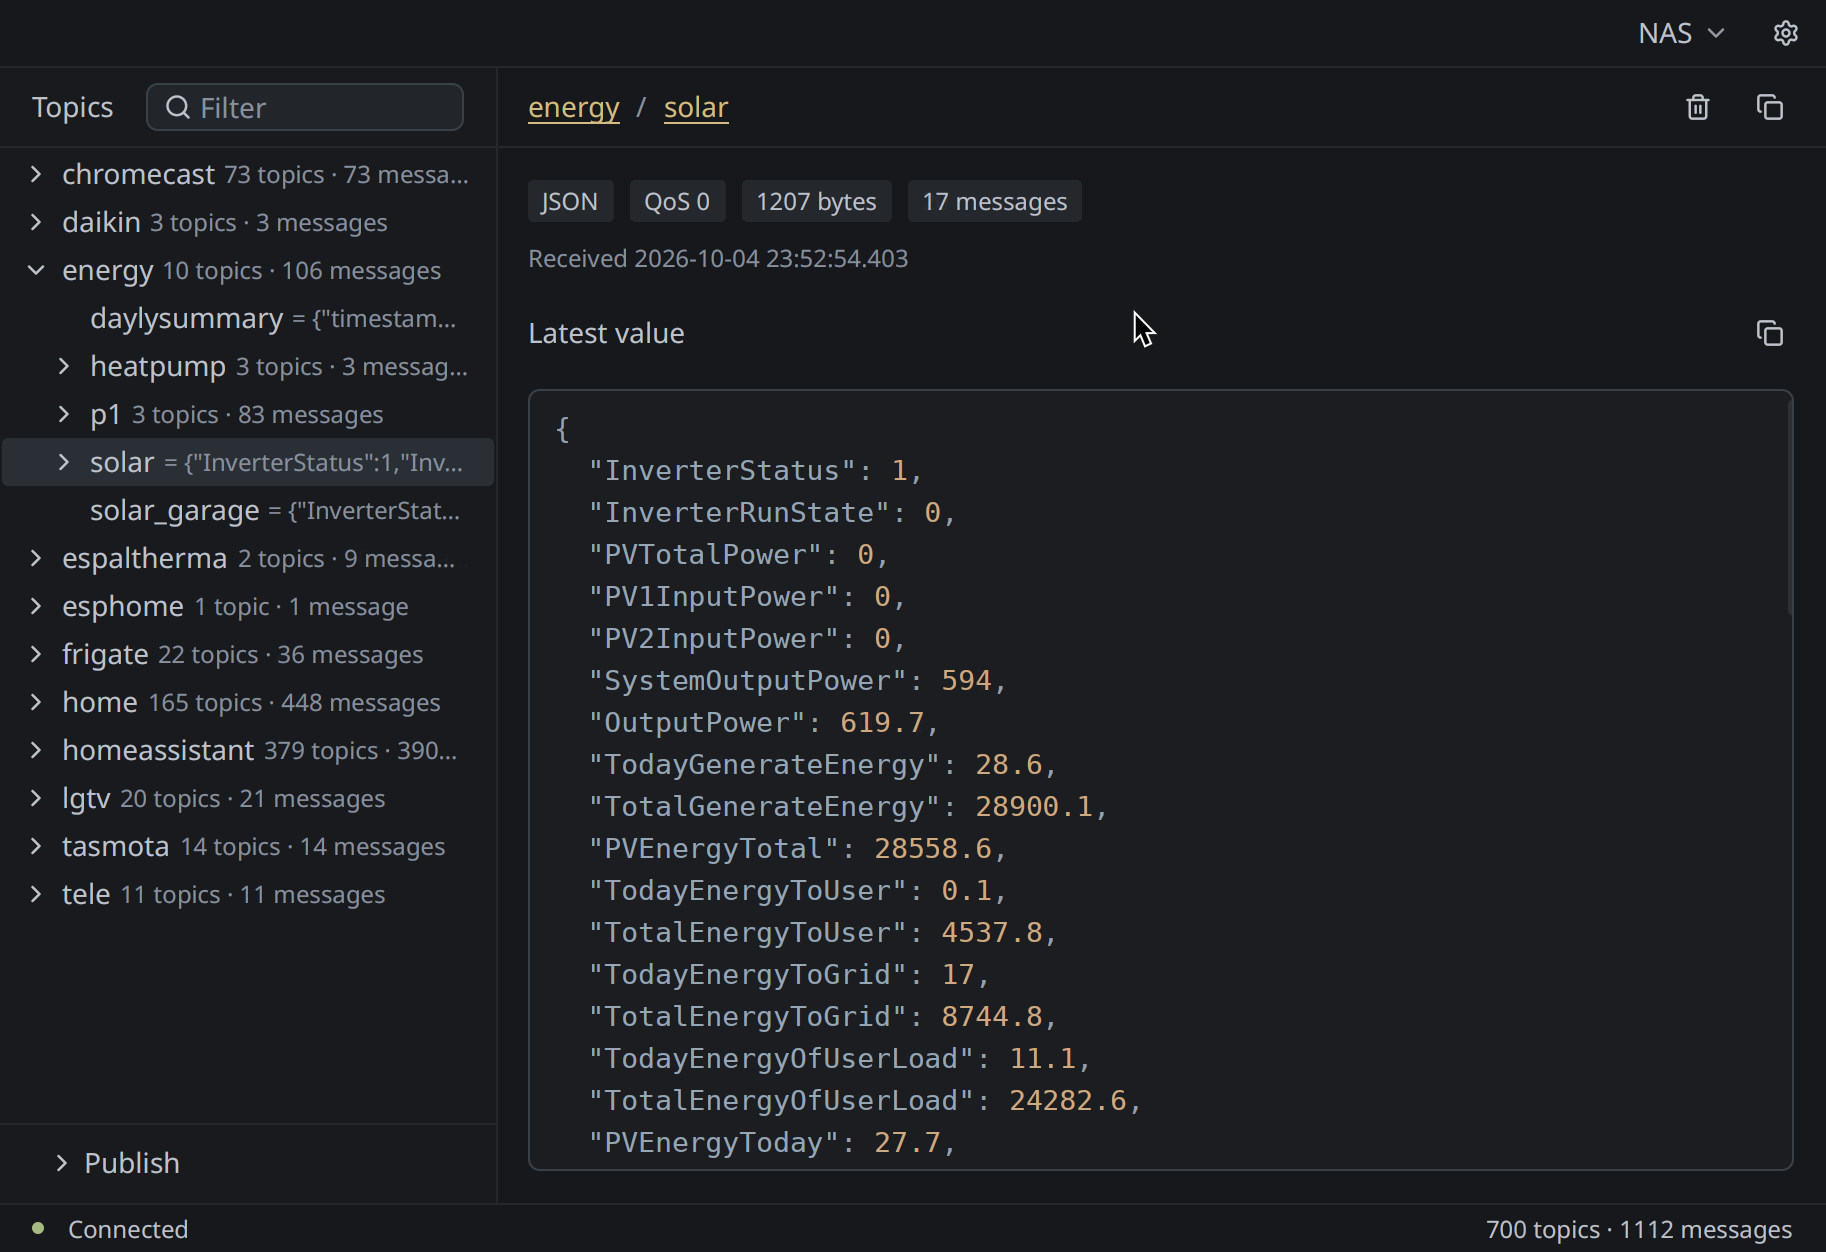
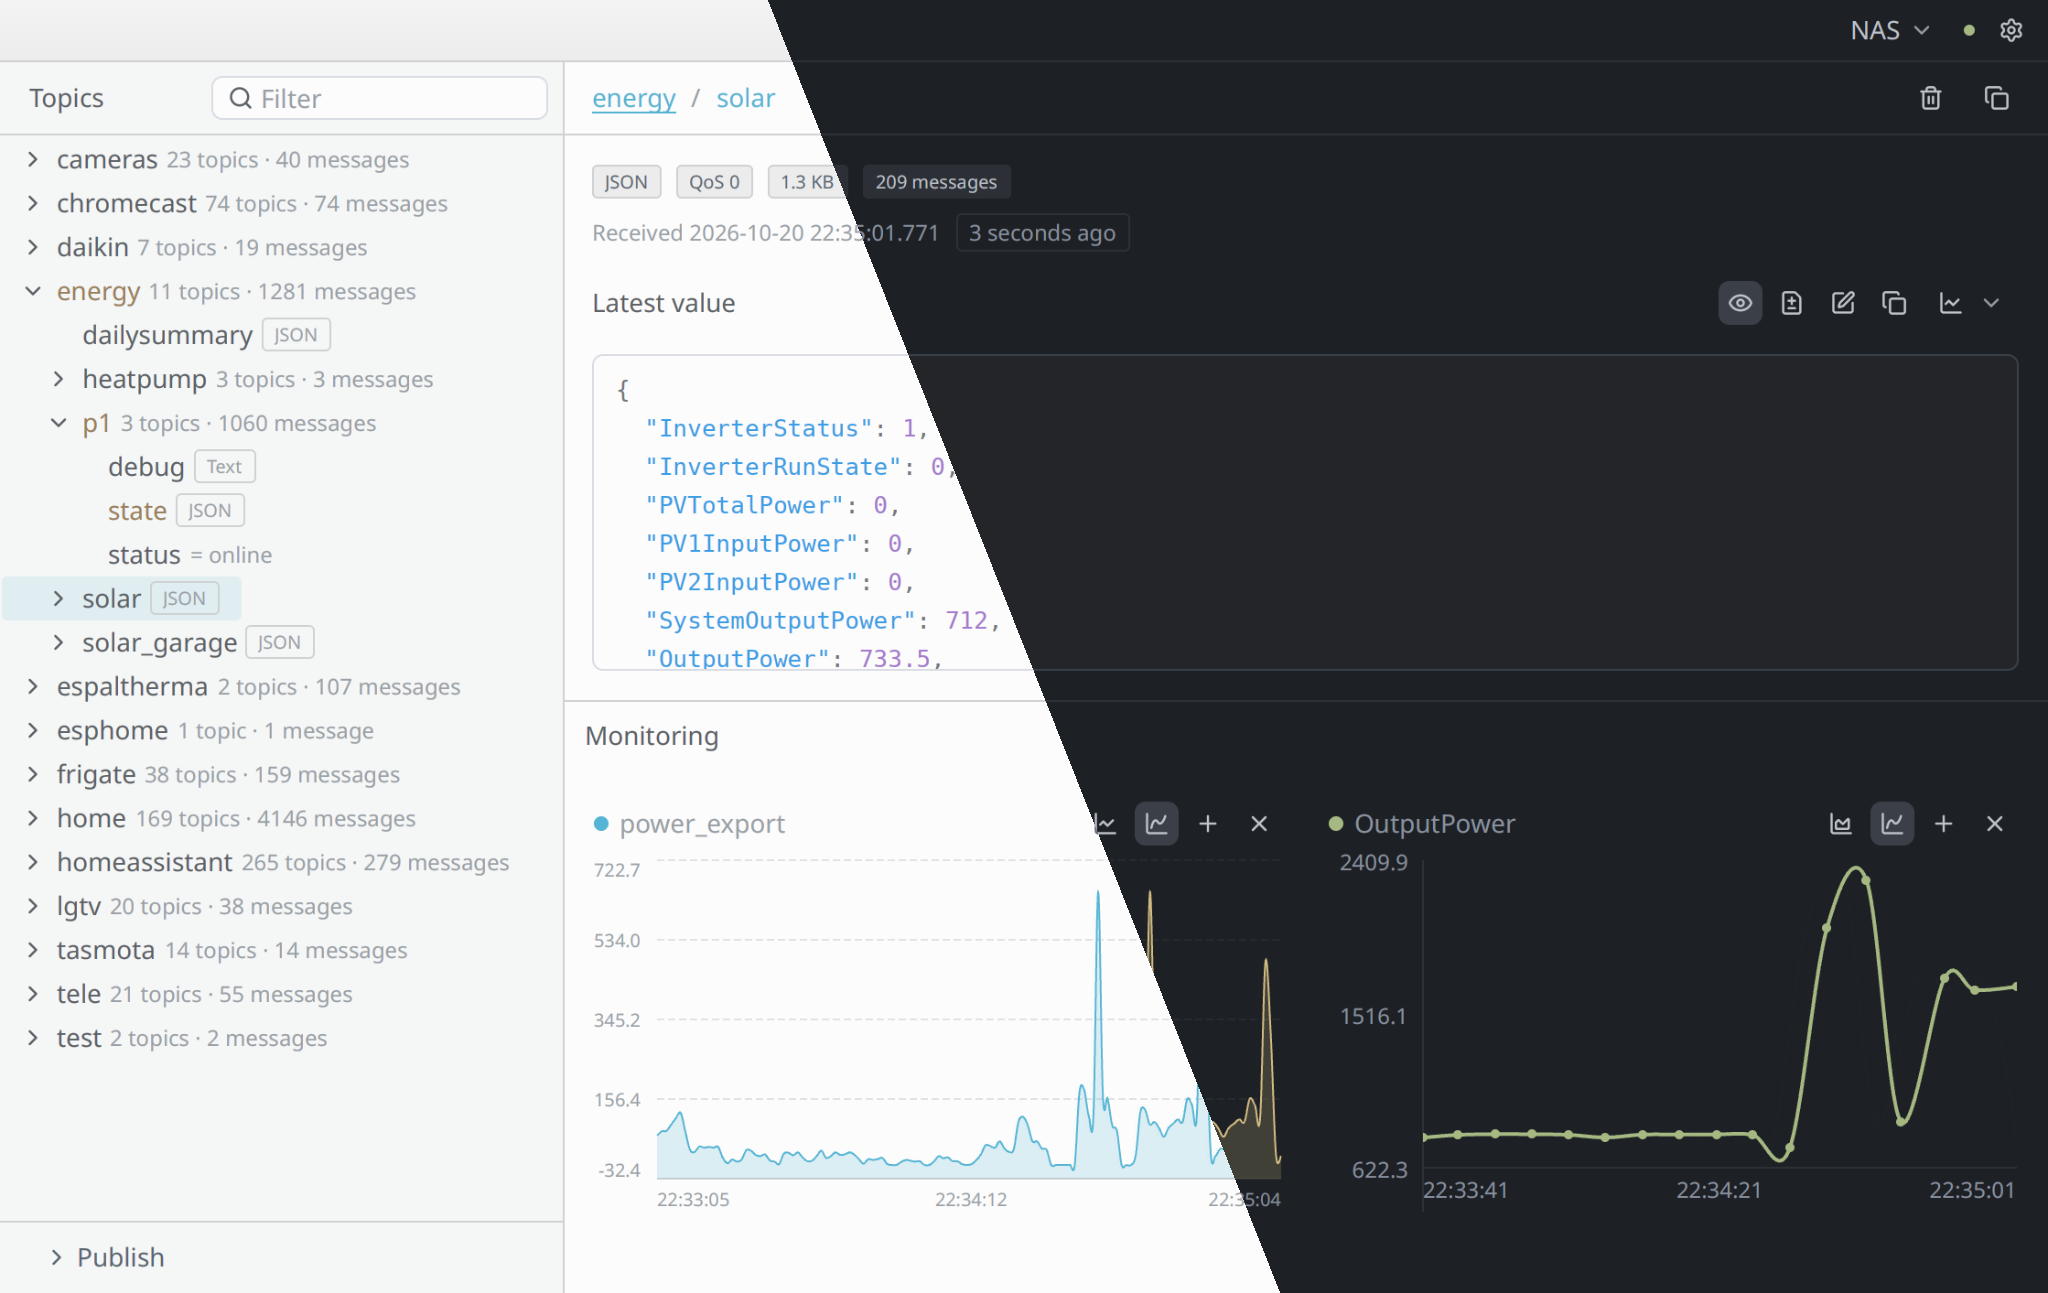
Clarify Password Storage Documentation

diff --git a/README.md b/README.md
@@ -10,7 +10,7 @@ An MQTT 5 topic explorer built with Rust and [GPUI Kit](https://gpui-kit.com).
 - Live topic tree
 - Payload pane to inspect the message payloads
 - Live payload diffs
-- Publish messages.
+- Publish messages
 - Deletion of retained messages for a selected topic and its known subtopics.
 - Live line and area charts for monitored numeric JSON fields
 
@@ -62,9 +62,9 @@ WebSocket connections use the fixed path `/mqtt`; custom paths are not configura
 
 `validate_certificate` defaults to `true`: TLS uses the system's trusted certificates and verifies the broker hostname. Setting it to `false` disables certificate and hostname verification; encryption remains, but the broker is not authenticated. It has no effect without TLS.
 
-Passwords are stored only in secure credential storage and must not be included in the URI. A JSON `password` field is ignored. For connections with a username, the password is retrieved from credential storage. Anonymous connections (without a username) do not need a password. Saving or restoring passwords requires an available, unlocked credential store; there is no plaintext fallback.
+Passwords are stored only in secure credential storage and must not be included in the URI. For connections with a username, the password is retrieved from credential storage. Anonymous connections (without a username) do not need a password. Saving or restoring passwords requires an available, unlocked credential store; there is no plaintext fallback.
 
-Credential storage uses the native Keychain on macOS and Credential Manager on Windows. On Linux, `oo7` automatically selects the desktop Secret Service for regular installations or an encrypted file backed by the Secret portal inside Flatpak. Flatpak password storage requires a host implementation of `org.freedesktop.portal.Secret`; normal operation does not require direct access to `org.freedesktop.secrets`. Keep the Flatpak application ID stable because the portal encryption key is application-scoped. Passwords are not migrated between native and Flatpak installations; re-enter them when switching.
+Credential storage uses the native Keychain on macOS and Credential Manager on Windows. On Linux, the desktop Secret Service is selected for regular installations or an encrypted file backed by the Secret portal inside Flatpak. Flatpak password storage requires a host implementation of `org.freedesktop.portal.Secret`.
 
 Appearance settings live alongside connection settings in `config.json`:
 
